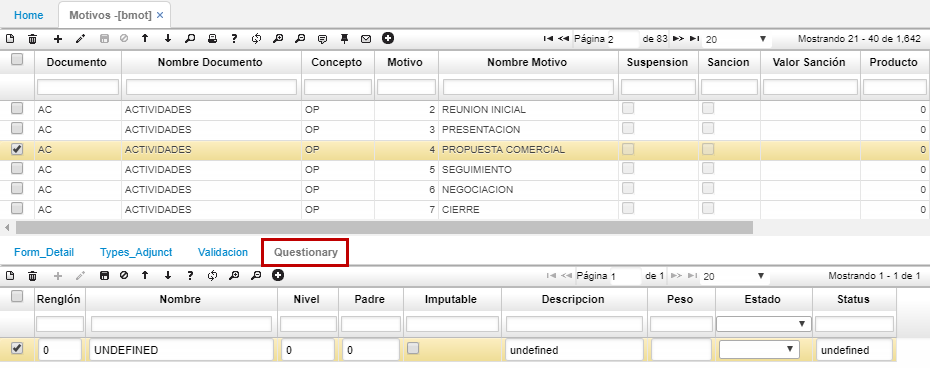
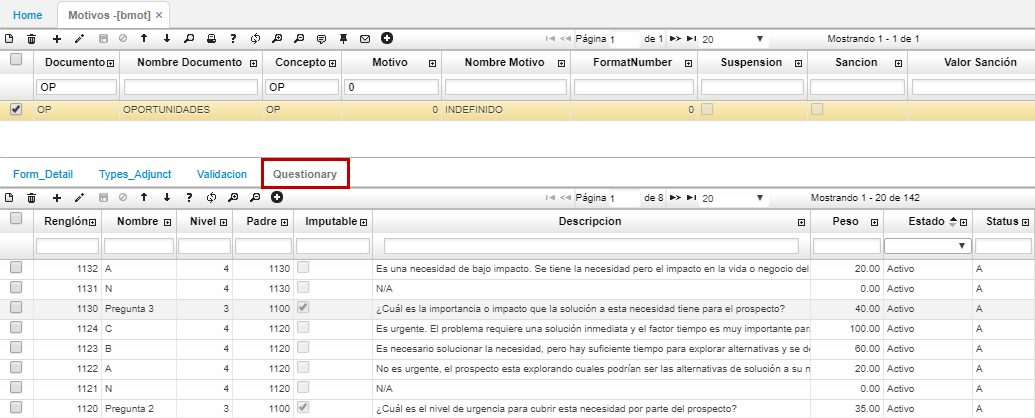
aopo

diff --git a/Operacion/common/bsistema/bmot.md b/Operacion/common/bsistema/bmot.md
@@ -1,29 +1,29 @@
----
-layout: default
-title: Documentos
-permalink: /Operacion/common/bsistema/bmot
-editable: si
----
-
-# Motivos - BMOT
-
-La aplicación **BMOT** permite el registro de los diferentes motivos por los cuales se pueden generar documentos. Documentos y conceptos previamente parametrizados en **BDOC** y **BCON** respectivamente.  
-
-![](bmot1.png)
-
-**Documento:** siglas del documento con el cual se relacionará el motivo a registrar.  
-**Concepto:** siglas del concepto con el cual se relacionará el motivo a registrar.  
-**Motivo:** número de identificación asignado al motivo que se registra.  
-**Nombre motivo:** nombre asignado al motivo que se registra.  
-
-La aplicación **BMOT** cuenta con una pestaña llamada _Cuestionario_ en donde se podrán definir las preguntas relevantes a calificar en un proceso comercial.  
-
-![](bmot3.png)
-
-
-## [Parametrización Anexos EEMOV](http://docs.oasiscom.com/Operacion/common/bsistema/bmot#parametrización-anexos-eemov)
-
-En BMOT se realiza la parametrización de los documentos que deben ir anexos al formulario de afiliación de la aplicación [**EEMOV - Formulario de Afiliados WEB**](http://docs.oasiscom.com/Operacion/crm/portal/cliente/eemov). A continuación, adjuntamos los documentos: formulario único, copia del documento de identificación y encuesta del sisben. Estos documentos son de carácter obligatorio para el documento MS, concepto IN y motivo 2.
-
-![](bmot2.png)
-
+---
+layout: default
+title: Documentos
+permalink: /Operacion/common/bsistema/bmot
+editable: si
+---
+
+# Motivos - BMOT
+
+La aplicación **BMOT** permite el registro de los diferentes motivos por los cuales se pueden generar documentos. Documentos y conceptos previamente parametrizados en **BDOC** y **BCON** respectivamente.  
+
+![](bmot1.png)
+
+**Documento:** siglas del documento con el cual se relacionará el motivo a registrar.  
+**Concepto:** siglas del concepto con el cual se relacionará el motivo a registrar.  
+**Motivo:** número de identificación asignado al motivo que se registra.  
+**Nombre motivo:** nombre asignado al motivo que se registra.  
+
+La aplicación **BMOT** cuenta con una pestaña llamada _Cuestionario_ en donde se podrán definir las preguntas relevantes a calificar en un proceso comercial.  
+
+![](bmot3.png)
+
+
+## [Parametrización Anexos EEMOV](http://docs.oasiscom.com/Operacion/common/bsistema/bmot#parametrización-anexos-eemov)
+
+En BMOT se realiza la parametrización de los documentos que deben ir anexos al formulario de afiliación de la aplicación [**EEMOV - Formulario de Afiliados WEB**](http://docs.oasiscom.com/Operacion/crm/portal/cliente/eemov). A continuación, adjuntamos los documentos: formulario único, copia del documento de identificación y encuesta del sisben. Estos documentos son de carácter obligatorio para el documento MS, concepto IN y motivo 2.
+
+![](bmot2.png)
+

diff --git a/Operacion/crm/venta/aoportunidad/aopo.md b/Operacion/crm/venta/aoportunidad/aopo.md
@@ -1,0 +1,22 @@
+---
+layout: default
+title: Oportunidades
+permalink: /Operacion/crm/venta/aoportunidad/aopo
+editable: si
+---
+
+# AOPO - Oportunidades
+
+La aplicación AOPO permite registrar las oportunidades de negocio que puedan surgir de las diferentes campañas comerciales.  
+
+En la pestaña _Ejecución_ se pueden observar las tareas ejecutadas por los trabajadores relacionadas a la oportunidad de negocio seleccionada en el maestro. Estas actividades se ejecutan por medio de la funcionalidad de workflow ubicada en la barra superior de herramientras, representada por el botón ![](aopo1.png) .  
+
+![](aopo2.png)
+
+La opción **AOPO** también cuenta con una pestaña en el detalle llamada _Cuestionario_, la cual permitirá la calificación de oportunidades de negocio de acuerdo a las preguntas definidas previamente en la aplicación [**BMOT - Motivos**](http://docs.oasiscom.com/Operacion/common/bsistema/bmot) en la pestaña del detalle también llamada _Cuestionario_.  
+
+![](aopo3.png)
+
+Seguidamente se encuentra la pestaña _Cotizaciones_, en la cual se podrán observar las cotizaciones que están procesadas y asignadas a la oportunidad de negocio en los campos _Document1_, _NumberId1_, y LocationId1_ de la cotización.  
+
+![](aopo4.png)
